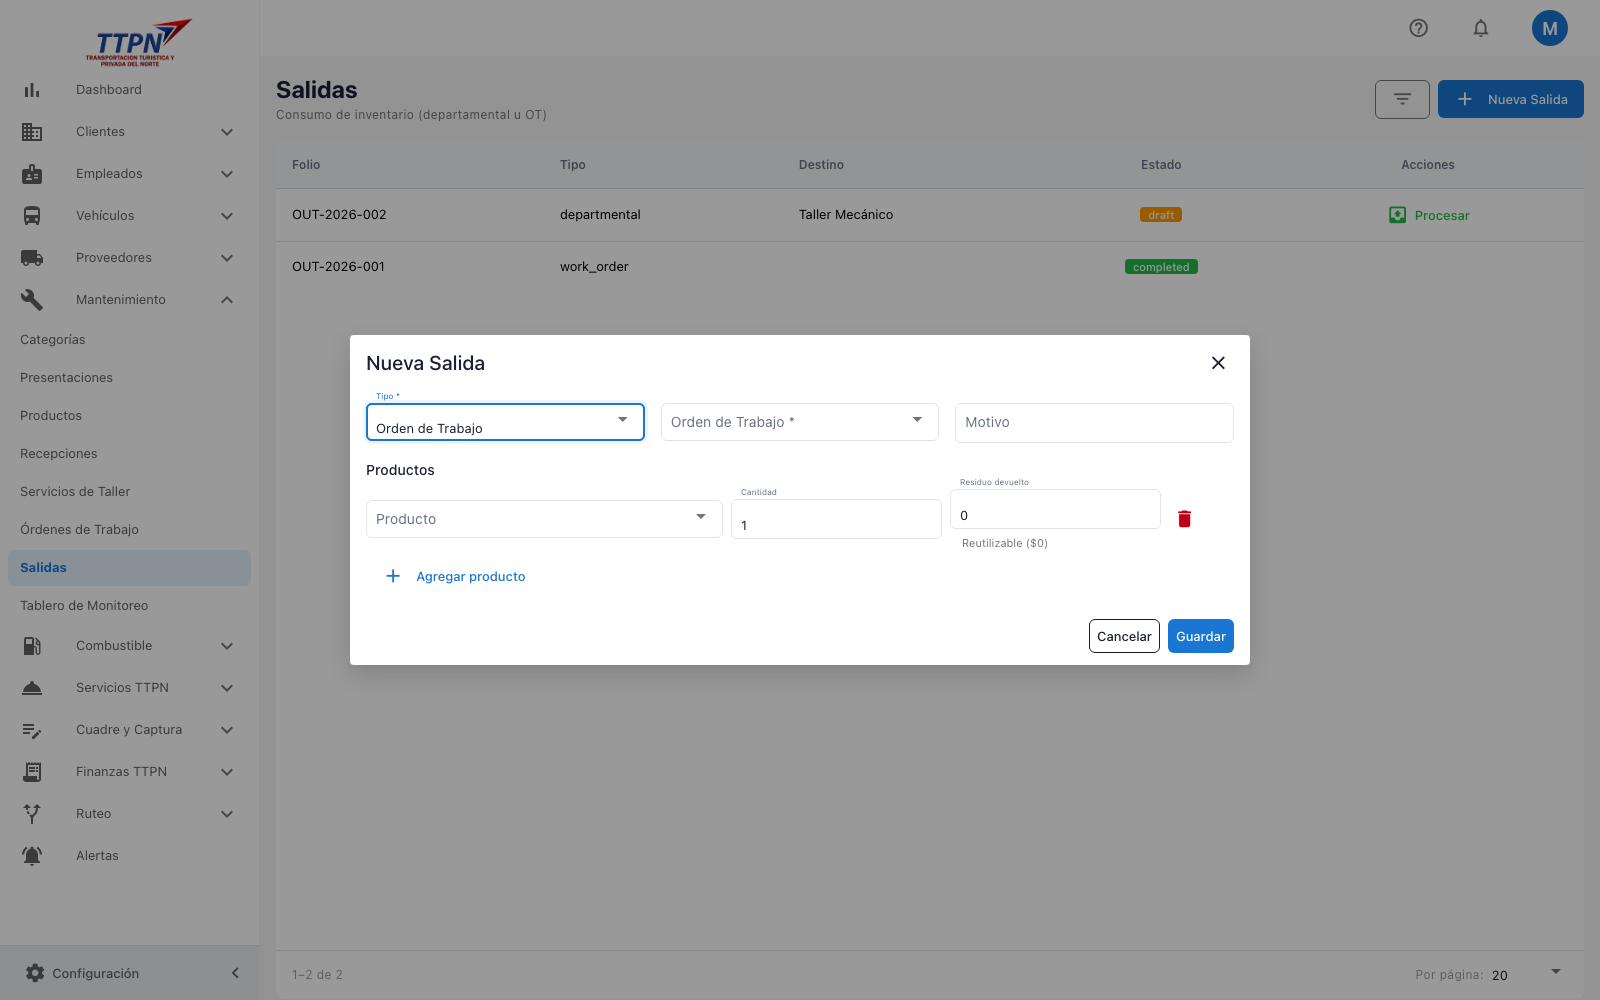
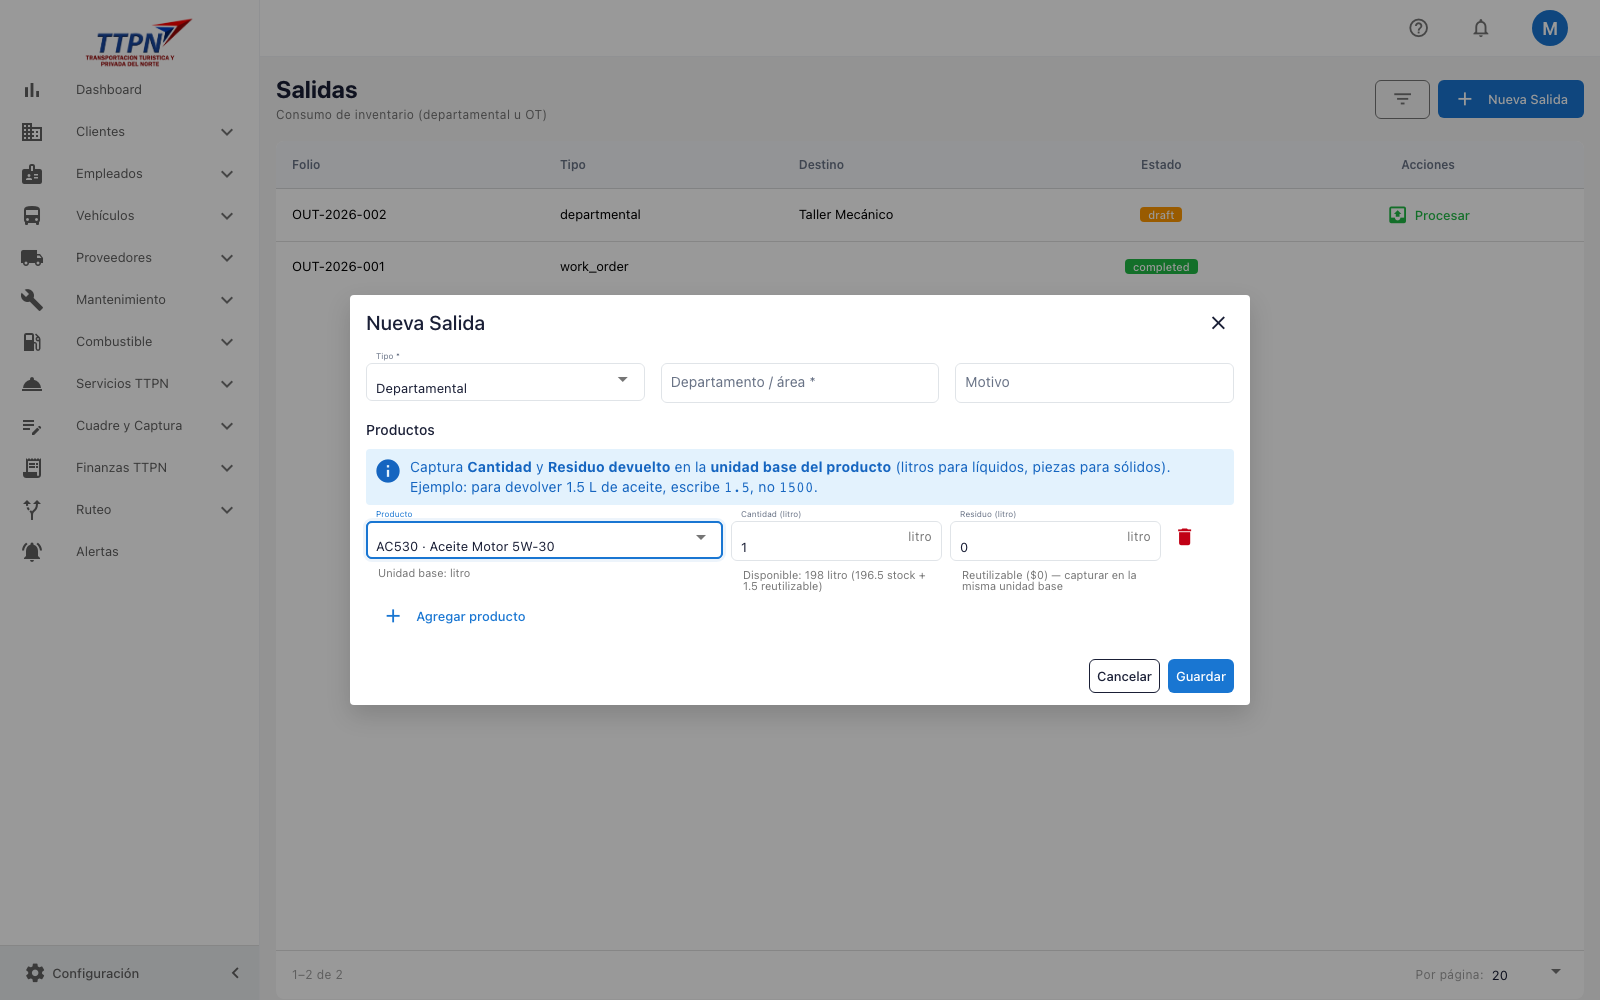
docs(manual mtto): regla de oro de captura en unidad base + captura nueva del form
Salidas y Residuo devuelto se capturan en la unidad base del producto
(litros para líquidos, piezas para sólidos). Se documentó explícito el caso
'1.5 L → escribe 1.5, no 1500'. La captura del form refleja el nuevo banner
y los suffixes dinámicos por producto.

diff --git a/Manuales/mantenimiento/manual_usuario.md b/Manuales/mantenimiento/manual_usuario.md
@@ -366,6 +366,14 @@ Pasos: **Nueva Salida** → elija el **Tipo** → destino u OT → agregue
 **productos** con la cantidad (en unidad base) → en líquidos puede capturar
 **Residuo devuelto** → **Guardar** → **Procesar**.
 
+> **⚠️ Regla de oro de la captura.** Tanto **Cantidad** como **Residuo
+> devuelto** se capturan en la **unidad base del producto** (la que aparece
+> en el catálogo de Productos): *litros* para líquidos, *piezas* para
+> sólidos. Cuando seleccionas un producto, la aplicación muestra la unidad
+> al lado del input (ej. `Cantidad (litro)`) y la cantidad disponible. Para
+> devolver **1.5 L** escribes `1.5`, **no** `1500`. Para sacar **4.9 L**
+> escribes `4.9`, **no** `4900`.
+
 ### 9.1 Residuo reutilizable de líquidos (costo hundido)
 
 Cuando entrega líquido a una OT y sobra una parte aún utilizable, captúrela